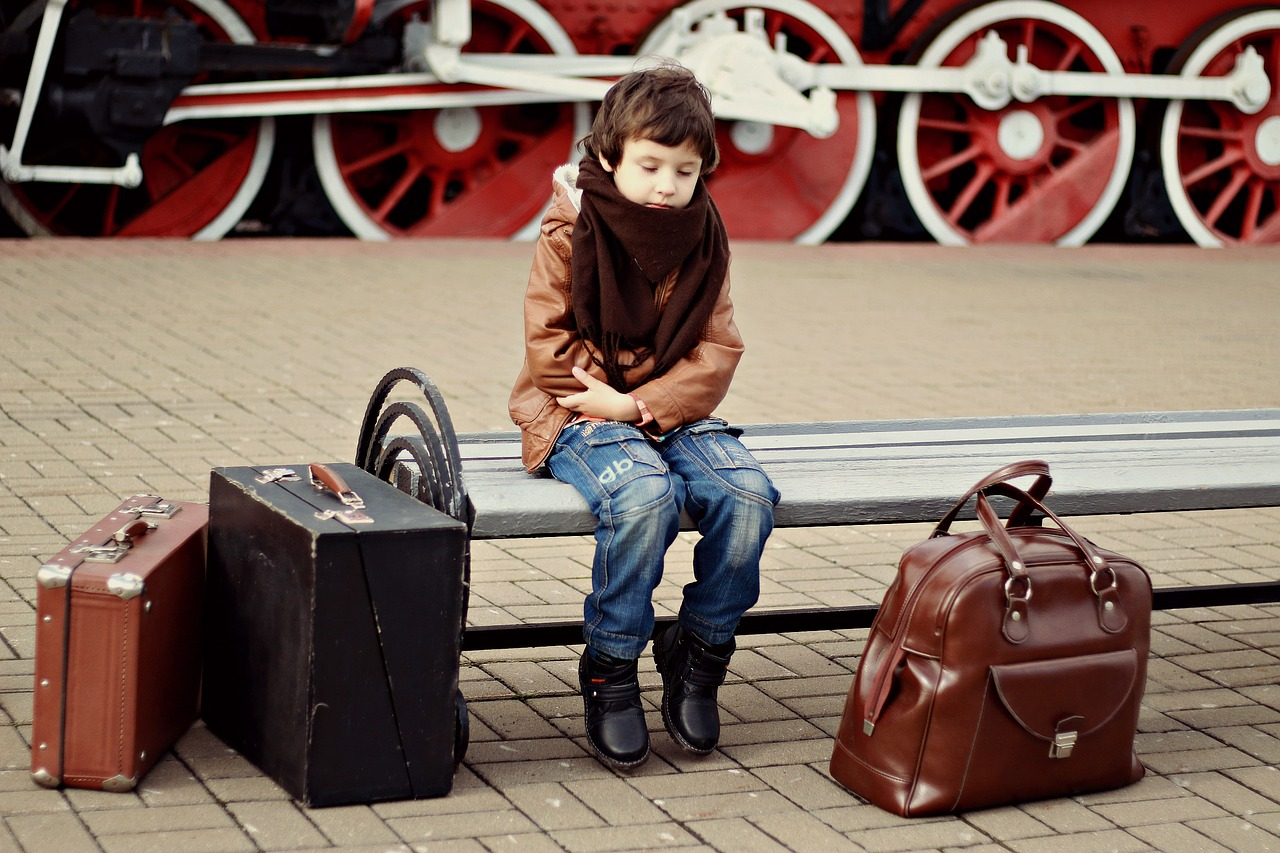
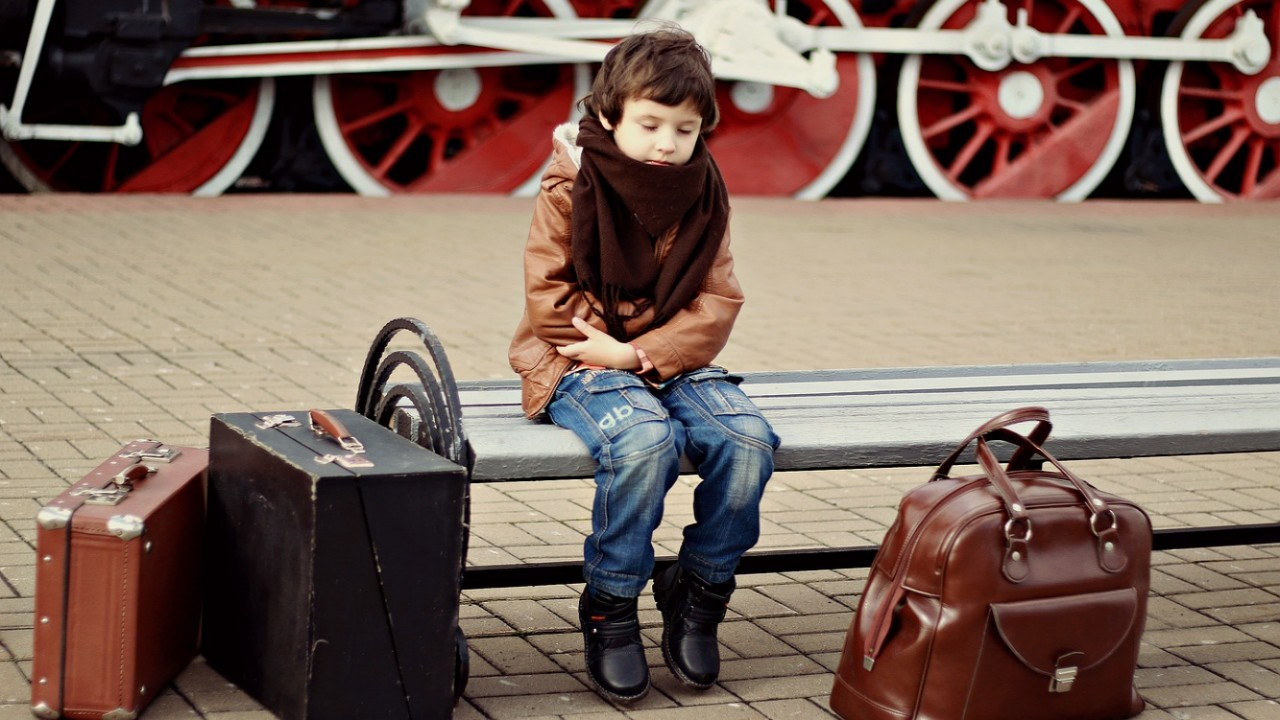
colors corrected

diff --git a/index.html b/index.html
@@ -63,52 +63,51 @@
                 <div class="last-entry content__container">
                     <a class="last-entry__link" href="#">
                         <div class="post-info-container">
-                            <p class="last-entry__hash">#50</p>
+                            <p class="last-entry__hash">#38</p>
+                            <h3 class="last-entry__title ">"Wiem, że nic nie wiem"</h3>
                             <p class="last-entry__date"><time datetime="2022-05-31">31-05-2022</time></>
                             </p>
                         </div>
-                        <h3 class="last-entry__title ">To jest tytuł najnowszego wpisu na blogu. </h3>
                         <img class="last-entry__picture" src="./img/Blog/blog_38.jpg" alt="">
-                        <p class="last-entry__text">Lorem, ipsum dolor sit amet consectetur adipisicing elit. Velit
-                            earum deserunt, ipsum tempore
-                            at expedita labore libero sapiente asperiores nesciunt porro eligendi, quos, neque magnam
-                            perspiciatis itaque cumque enim ipsa? Corporis perspiciatis quibusdam nihil facilis
-                            voluptates expedita saepe molestiae aliquid libero repudiandae? Facere eos provident
-                            pariatur dolores molestiae. Delectus, quos?</p>
+                        <p class="last-entry__text"><b>Ciekawe, jak odpalałem dzisiaj komputer, żeby zrobić przegląd minionego tygodnia, to miałem poczucie, że to nie był najbardziej produktywny tydzień. Jednak wyniki pokazują, że kluczowe zadania zrealizowałem na 125%, a dodatkowo 1,5h spędziłem na dokończeniu kursu JS z MMC School. Poza tym ogromną ilość czasu spędziłem nad tematami związanymi z programowaniem, ale nie będącymi na mojej liście zadań.</b></p>
+
+                        <p class="last-entry__text">Trochę utknąłem z projektem własnej strony bloga, przez co ...</p>
                     </a>
                 </div>
                 <div class="prev-entries content__container">
                     <a href="#">
-                        <div class="prev-entries__1">
+                        <div class="prev-entries__entry">
                             <div class="post-info-container">
-                                <p class="prev-entries__hash">#49</p>
+                                <p class="prev-entries__hash">#37</p>
                                 <p class="prev-entries__date"><time datetime="2022-05-31">31-05-2022</time></>
                                 </p>
                             </div>
-                            <h3 class="prev-entries__title">To jest tytuł wcześniejszego wpisu -1 - </h3>
+                            <h3 class="prev-entries__title">12-tygodniowy plan II - tydzień dziewiąty</h3>
                             <img class="prev-entries__picture" src="./img/Blog/blog_37.jpg" alt="">
                         </div>
                     </a>
                     <a href="#">
-                        <div class="prev-entries__2">
+                        <div class="prev-entries__entry">
                             <div class="post-info-container">
-                                <p class="prev-entries__hash">#48</p>
+                                <p class="prev-entries__hash">#36</p>
                                 <p class="prev-entries__date"><time datetime="2022-05-31">31-05-2022</time></>
                                 </p>
                             </div>
-                            <h3 class="prev-entries__title">To jest tytuł wcześniejszego wpisu -2 - </h3>
+                            <h3 class="prev-entries__title">Mógłby już ten pociąg przyjechać</h3>
                             <img class="prev-entries__picture" src="./img/Blog/blog_36.jpg" alt="">
                         </div>
                     </a>
                     <a href="#">
-                        <div class="prev-entries__3">
+                        <div class="prev-entries__entry">
                             <div class="post-info-container">
-                                <p class="prev-entries__hash">#47</p>
+                                <p class="prev-entries__hash">#35</p>
                                 <p class="prev-entries__date"><time datetime="2022-05-31">31-05-2022</time></>
                                 </p>
                             </div>
-                            <h3 class="prev-entries__title">To jest tytuł wcześniejszego wpisu -3 - </h3>
-                            <img class="prev-entries__picture" src="./img/Blog/blog_35.jpg" alt="">
+                            <div>
+                                <h3 class="prev-entries__title">Czas na kolejny krok</h3>
+                                <img class="prev-entries__picture" src="./img/Blog/blog_35.jpg" alt="">
+                            </div>
                         </div>
                     </a>
                 </div>

diff --git a/scss/style.scss b/scss/style.scss
@@ -10,7 +10,7 @@ $fontsize-xl: 2rem;
 $color-header-text: rgb(198, 215, 218);
 $color-content-text: rgb(0, 0, 0);
 $color-bgc: rgb(32, 33, 34);
-$color-detail: rgb(255, 0, 0);
+$color-detail: rgb(163, 10, 10);
 $color-purple: rgb(37, 3, 90);
 $color-content-bgc: grey;
 
@@ -67,7 +67,7 @@ table {
 }
 
 .scroll {
-	scroll-margin-top: 3.5rem;
+	scroll-margin-top: 3.7rem;
 }
 
 // header
@@ -132,12 +132,12 @@ table {
 
 	&__link {
 		color: $color-header-text;
-		transition: .5s;
+		transition: 0.5s;
 	}
 
 	&__link:hover {
 		color: $color-detail;
-		font-size: $fontsize-ms;
+		// font-size: $fontsize-ms;
 	}
 }
 
@@ -153,7 +153,7 @@ table {
 
 	&__container {
 		margin: 0.5em 1em;
-		padding: .5em;
+		padding: 0.5em;
 		background-color: $color-content-bgc;
 		border-radius: 1em;
 	}
@@ -165,7 +165,6 @@ table {
 	}
 
 	.about {
-
 		&__picture {
 			float: left;
 			height: 10.5em;
@@ -205,7 +204,8 @@ table {
 		.last-entry {
 			&__hash {
 				margin: 0.5em 1em;
-				font-size: $fontsize-s;
+				font-size: $fontsize-ms;
+				font-weight: bold;
 				text-align: left;
 				color: $color-detail;
 			}
@@ -218,9 +218,9 @@ table {
 			}
 
 			&__title {
-				margin-left: 1.5em;
-				margin-bottom: 0.5em;
-				font-size: $fontsize-s;
+				margin: 0 auto;
+				// margin-bottom: 0.5em;
+				font-size: $fontsize-m;
 				color: $color-content-text;
 			}
 
@@ -243,6 +243,7 @@ table {
 	.prev-entries {
 
 		&__hash {
+			// position: absolute;
 			margin-left: 0.7em;
 			font-size: $fontsize-s;
 			text-align: left;
@@ -250,6 +251,7 @@ table {
 		}
 
 		&__date {
+			// position: absolute;
 			margin-right: 1.5em;
 			margin-top: 0.5em;
 			padding: 0.3em;
@@ -258,12 +260,12 @@ table {
 		}
 
 		&__title {
+			text-align: center;
 			padding: 0 0 0.3em 0.7em;
 			color: $color-content-text;
 		}
 
 		&__picture {
-			display: block;
 			margin: 0 auto;
 			width: 18em;
 			padding: 0 0.5em;

diff --git a/css/style.css b/css/style.css
@@ -51,11 +51,11 @@ table {
 }
 
 .detail-color {
-  color: red;
+  color: #a30a0a;
 }
 
 .scroll {
-  scroll-margin-top: 3.5rem;
+  scroll-margin-top: 3.7rem;
 }
 
 .header {
@@ -133,13 +133,12 @@ table {
 
 .nav__link {
   color: #c6d7da;
-  -webkit-transition: .5s;
-  transition: .5s;
+  -webkit-transition: 0.5s;
+  transition: 0.5s;
 }
 
 .nav__link:hover {
-  color: red;
-  font-size: 1.1rem;
+  color: #a30a0a;
 }
 
 .content {
@@ -160,7 +159,7 @@ table {
 
 .content__container {
   margin: 0.5em 1em;
-  padding: .5em;
+  padding: 0.5em;
   background-color: grey;
   border-radius: 1em;
 }
@@ -195,7 +194,7 @@ table {
 }
 
 .content .about__hash-color {
-  color: red;
+  color: #a30a0a;
 }
 
 .content .blog {
@@ -224,9 +223,10 @@ table {
 
 .content .blog .last-entry__hash {
   margin: 0.5em 1em;
-  font-size: 1rem;
+  font-size: 1.1rem;
+  font-weight: bold;
   text-align: left;
-  color: red;
+  color: #a30a0a;
 }
 
 .content .blog .last-entry__date {
@@ -237,9 +237,8 @@ table {
 }
 
 .content .blog .last-entry__title {
-  margin-left: 1.5em;
-  margin-bottom: 0.5em;
-  font-size: 1rem;
+  margin: 0 auto;
+  font-size: 1.5rem;
   color: black;
 }
 
@@ -260,7 +259,7 @@ table {
   margin-left: 0.7em;
   font-size: 1rem;
   text-align: left;
-  color: red;
+  color: #a30a0a;
 }
 
 .content .prev-entries__date {
@@ -272,12 +271,12 @@ table {
 }
 
 .content .prev-entries__title {
+  text-align: center;
   padding: 0 0 0.3em 0.7em;
   color: black;
 }
 
 .content .prev-entries__picture {
-  display: block;
   margin: 0 auto;
   width: 18em;
   padding: 0 0.5em;
